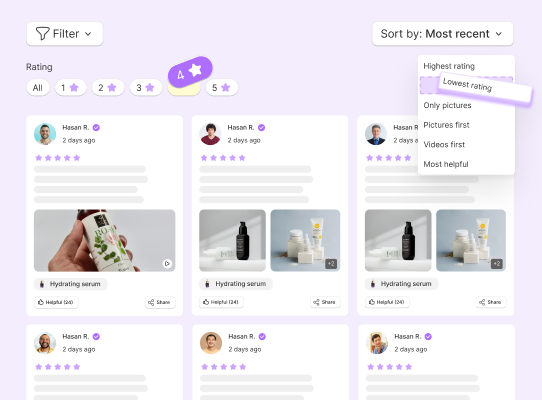
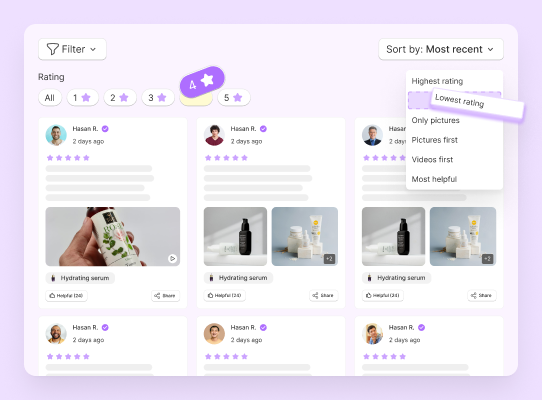
feat: implement dashboard index route with review management and status monitoring capabilities

diff --git a/app/routes/app._index.jsx b/app/routes/app._index.jsx
@@ -16,6 +16,7 @@ import {
 } from "../services/reviews.server.js";
 import { sendEmail } from "../utils/sendEmail";
 import { buildReplyEmailData } from "../services/emailPayload.server.js";
+import { useAdminFetcherToast } from "../utils/useAdminFetcherToast";
 
 import { checkAppEmbedEnabled, getWidgetsInstalledStatus } from "../services/appEmbed.server.js";
 export async function loader({ request }) {
@@ -86,6 +87,14 @@ export async function action({ request }) {
             status: String(status),
             storeId: storeData.id,
           });
+          
+          let message = "Review status updated successfully";
+          if (status === "ARCHIVE") {
+            message = "Review unpublished successfully";
+          } else if (status === "PUBLISHED") {
+            message = "Review published successfully";
+          }
+          return { ok: true, message };
         }
         break;
       }
@@ -97,6 +106,7 @@ export async function action({ request }) {
             reviewId: String(reviewId),
             storeId: storeData.id,
           });
+          return { ok: true, message: "Review deleted successfully" };
         }
         break;
       }
@@ -172,6 +182,7 @@ export async function action({ request }) {
 
 export default function Index() {
   const fetcher = useFetcher();
+  useAdminFetcherToast(fetcher);
   const { reviews, pendingOrders, shop = "", apiKey = "", isAppEnabled = false, isQuickReviewInstalled = false, isEmailConfigured = false } = useLoaderData();
   // Start----Default CSR loading state checking for navigation
   const navigation = useNavigation();

diff --git a/app/routes/app.reviews/routes/app._index.jsx b/app/routes/app.reviews/routes/app._index.jsx
@@ -192,7 +192,15 @@ export async function action({ request }) {
           rating,
           productId,
         );
-        return { reviews };
+        
+        let message = "Review status updated successfully";
+        if (status === "ARCHIVE") {
+          message = "Review unpublished successfully";
+        } else if (status === "PUBLISHED") {
+          message = "Review published successfully";
+        }
+
+        return { reviews, ok: true, message };
       }
       case "DELETE": {
         const formData = await request.formData();
@@ -218,7 +226,7 @@ export async function action({ request }) {
           rating,
           productId,
         );
-        return { reviews };
+        return { reviews, ok: true, message: "Review deleted successfully" };
       }
 
       // Reply review

diff --git a/app/components/essentials/ReviewItem.jsx b/app/components/essentials/ReviewItem.jsx
@@ -626,6 +626,7 @@ export default function ReviewItem({
               setReplyReview={setReplyReview}
             />
             <s-button
+              tone="critical"
               icon="delete"
               onClick={() => handleReviewDelete(data.id, data?.attachments)}
             />
@@ -656,6 +657,7 @@ export function ActionButtons({
           Approve
         </s-button>
         <s-button
+          tone="critical"
           icon="x"
           onClick={() => handleStatusUpdate(reviewId, "ARCHIVE")}
         >
